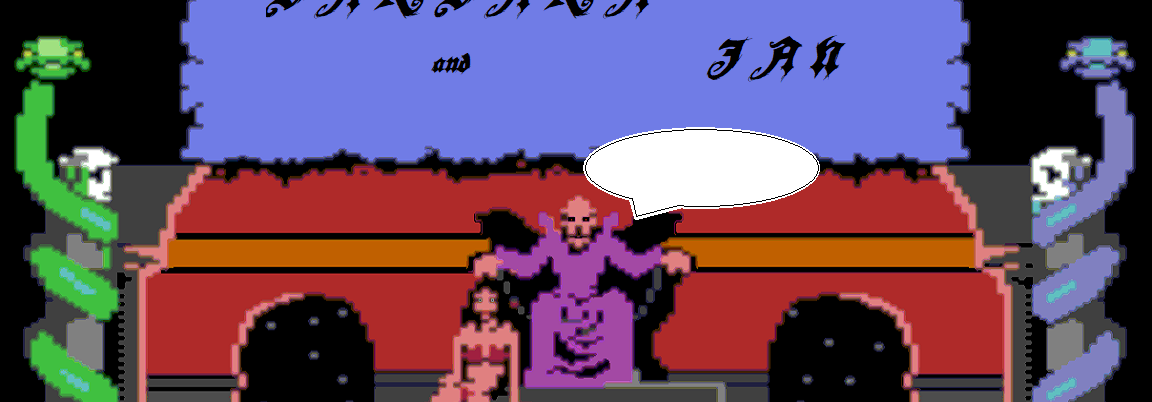
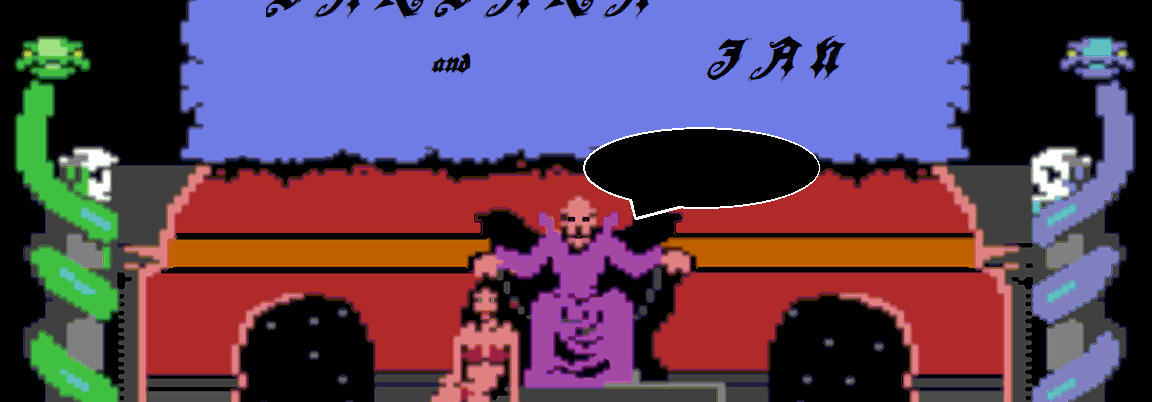
dialogs

Changed region(s): [[0.5, 0.2985, 0.7188, 0.5373]]

diff --git a/games-anims/barbara-jan/src/main/board.py b/games-anims/barbara-jan/src/main/board.py
@@ -1,14 +1,15 @@
 import arcade
-
-from src.main.project_globals import Constants
+from src.main.data import Data
+from src.main.project_globals import Constants, Globals
 
 
 class Board:
-
     MIN_X = 520
     MAX_X = 1712
 
     def __init__(self):
+        self.dialog = False
+        self.message_ptr = Data.empty
         y_offset = 0
         self.top_image = arcade.load_texture("resources/top.png")
         self.top_offset = y_offset
@@ -26,12 +27,12 @@ class Board:
         self.bottom_image = arcade.load_texture("resources/bottom.png")
         self.bottom_offset = y_offset
 
-    def draw(self, dialog=False):
+    def draw(self):
         arcade.draw_texture_rectangle(Constants.SCREEN_WIDTH // 2,
                                       Constants.SCREEN_HEIGHT - self.top_offset - self.top_image.height // 2,
                                       self.top_image.width, self.top_image.height, self.top_image)
 
-        throne_image = self.throne_dialog_image if dialog else self.throne_image
+        throne_image = self.throne_dialog_image if self.dialog else self.throne_image
 
         arcade.draw_texture_rectangle(Constants.SCREEN_WIDTH // 2,
                                       Constants.SCREEN_HEIGHT - self.throne_offset - self.throne_image.height // 2,
@@ -44,6 +45,14 @@ class Board:
         arcade.draw_texture_rectangle(Constants.SCREEN_WIDTH // 2,
                                       Constants.SCREEN_HEIGHT - self.bottom_offset - self.bottom_image.width // 2,
                                       self.bottom_image.width, self.bottom_image.height, self.bottom_image)
+
+        if self.dialog:
+            self.draw_dialogue()
+
+    def draw_dialogue(self):
+        msg = self.message_ptr[Globals.version]
+        # print(msg)
+        arcade.draw_text(msg, Constants.SCREEN_WIDTH // 2 + 30, self.arena_offset + 110)
 
     def apply_boundaries(self, fighter):
         if fighter.x >= Board.MAX_X:

diff --git a/games-anims/barbara-jan/BarbaraJan.py b/games-anims/barbara-jan/BarbaraJan.py
@@ -1,6 +1,9 @@
+import math
+
 import arcade
 
 from src.main.board import Board
+from src.main.data import Data
 from src.main.fighter import Honda, Karateka
 from src.main.project_globals import Constants
 
@@ -22,6 +25,8 @@ class BarbaraJan(arcade.Window):
         self.honda_fighter = Honda(self.board.arena_offset)
         self.karateka_fighter = Karateka(self.board.arena_offset)
         self.captions = "normal"
+        self.random_draw_reset = True
+        self.time = 0
         self.key_state = {key: False for key in (
             KEYS["HONDA_RIGHT"],
             KEYS["HONDA_LEFT"],
@@ -41,9 +46,36 @@ class BarbaraJan(arcade.Window):
         self.honda_fighter.draw()
 
     def update(self, delta_time):
+        self.time += delta_time
+        # print(self.time, end='\t')
+        self.handle_dialogue()
         self.honda_fighter.update()
         self.karateka_fighter.update()
         self.handle_movement()
+
+    def handle_dialogue(self):
+
+        self.board.dialog = False
+
+        if self.time < 3:
+            self.board.dialog = True
+            self.board.message_ptr = Data.fight_call
+
+        t1 = math.floor(self.time) % 88
+
+        if 15 < t1 < 24:
+            self.board.dialog = True
+            self.board.message_ptr = Data.honda_insult
+
+        t2 = math.floor(self.time) % 51
+
+        if 33 < t2 < 44:
+            self.board.dialog = True
+            if self.random_draw_reset:
+                self.board.message_ptr = Data.get_random()
+            self.random_draw_reset = False
+        else:
+            self.random_draw_reset = True
 
     def handle_movement(self):
         if self.key_state[KEYS["HONDA_RIGHT"]]:
@@ -80,4 +112,3 @@ class BarbaraJan(arcade.Window):
 
         if key in self.key_state:
             self.key_state[key] = False
-

diff --git a/games-anims/barbara-jan/src/main/data.py b/games-anims/barbara-jan/src/main/data.py
@@ -1,10 +1,38 @@
+import random
+
+
 class Data:
-    beaten_honda = {
-        "normal": "Honda was beaten !",
-        "adult": "Honda, ty kurwo jebana !"
+    empty = {
+        "normal": "",
+        "adult": ""
+    }
+
+    honda_insult = {
+        "normal": "Honda! You loser !",
+        "adult": "Honda! Ty kurwo jebana !"
+    }
+
+    general_insult = {
+        "normal": "   P U S S I E S !!!",
+        "adult": "  P I Z D E C Z K I !!!"
+    }
+
+    best_mage = {
+        "normal": "     I am the best !",
+        "adult": "    Ja jestem najlepszy !"
+    }
+
+    damn_it = {
+        "normal": "      Damn it !",
+        "adult": "      JA PIERDOLE !"
     }
 
     fight_call = {
-        "normal": "Begin fight !",
-        "adult": "Nakurwiajcie !"
+        "normal": "     Begin fight !",
+        "adult": "    NAKURWIAJCIE !"
     }
+
+    @staticmethod
+    def get_random():
+        shout = [Data.general_insult, Data.best_mage, Data.damn_it]
+        return random.choice(shout)

diff --git a/games-anims/barbara-jan/AdultBarbaraJan.py b/games-anims/barbara-jan/AdultBarbaraJan.py
@@ -1,4 +1,5 @@
 from BarbaraJan import BarbaraJan
+from src.main.project_globals import Globals
 
 
 class AdultBarbaraJan(BarbaraJan):
@@ -6,5 +7,4 @@ class AdultBarbaraJan(BarbaraJan):
     def __init__(self):
         super().__init__()
         print("Welcome to the adult version of Barbarian/Barbara & Ian.")
-        self.captions = "adult"
-
+        Globals.version = "adult"

diff --git a/games-anims/barbara-jan/src/main/project_globals.py b/games-anims/barbara-jan/src/main/project_globals.py
@@ -1,8 +1,5 @@
 import os
 
-import arcade
-import numpy as np
-
 
 class Constants:
     SCREEN_WIDTH = 1152
@@ -50,3 +47,4 @@ class Utils:
 
 class Globals:
     root_dir = os.path.dirname(os.path.abspath(__file__))
+    version = "normal"
